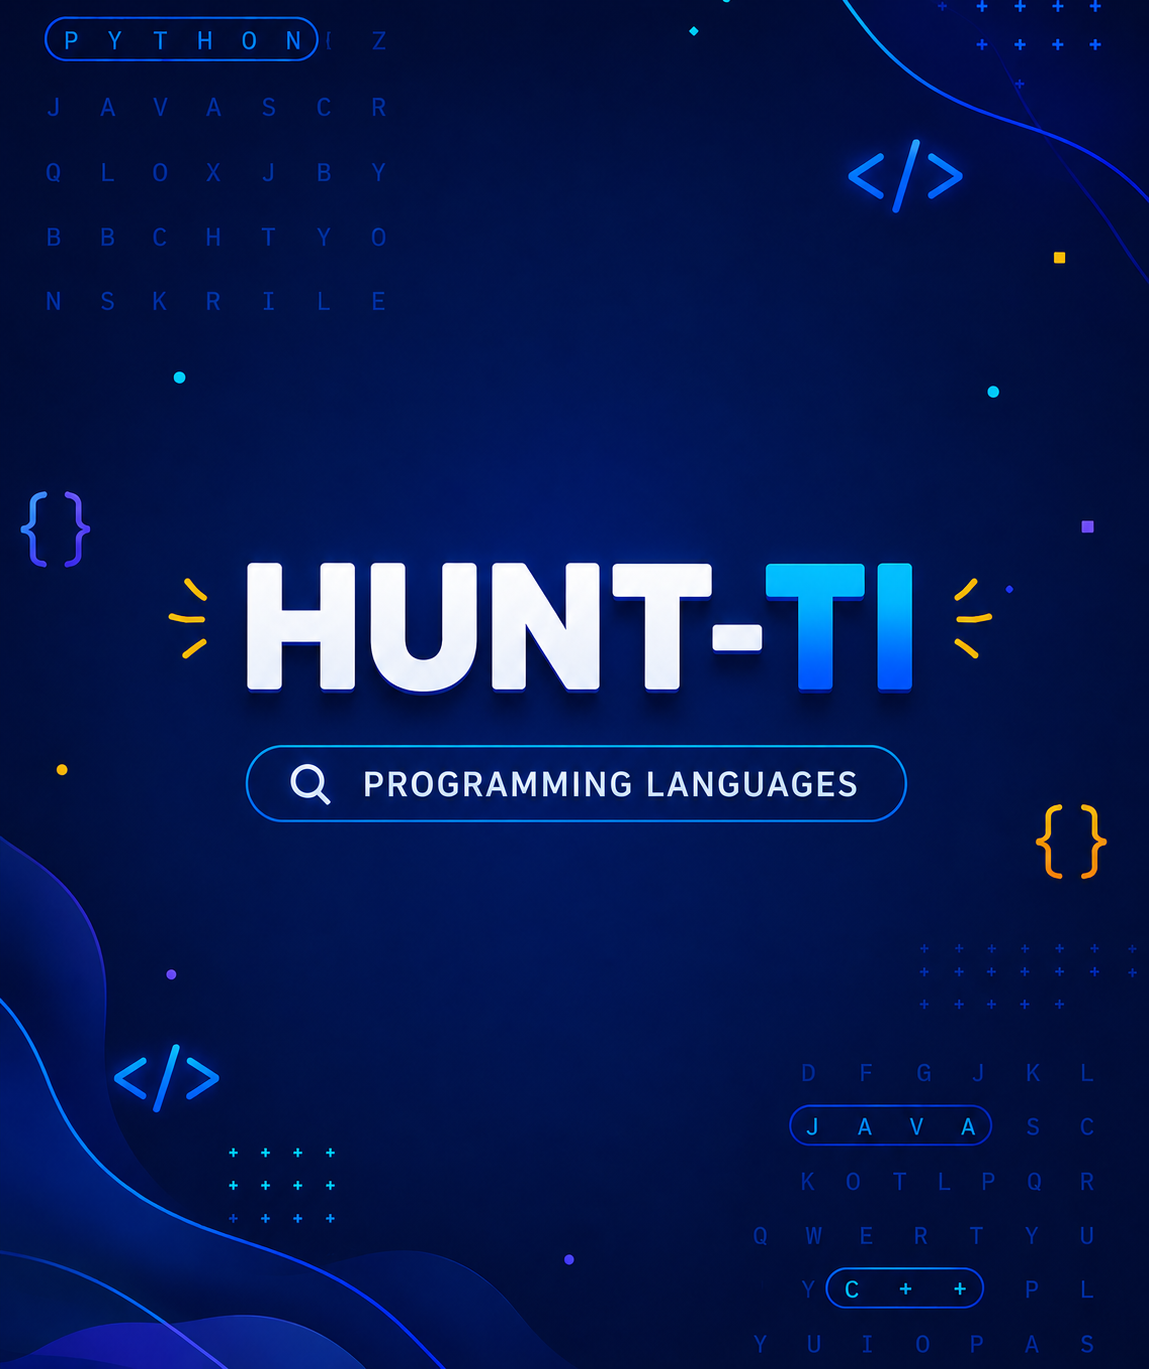
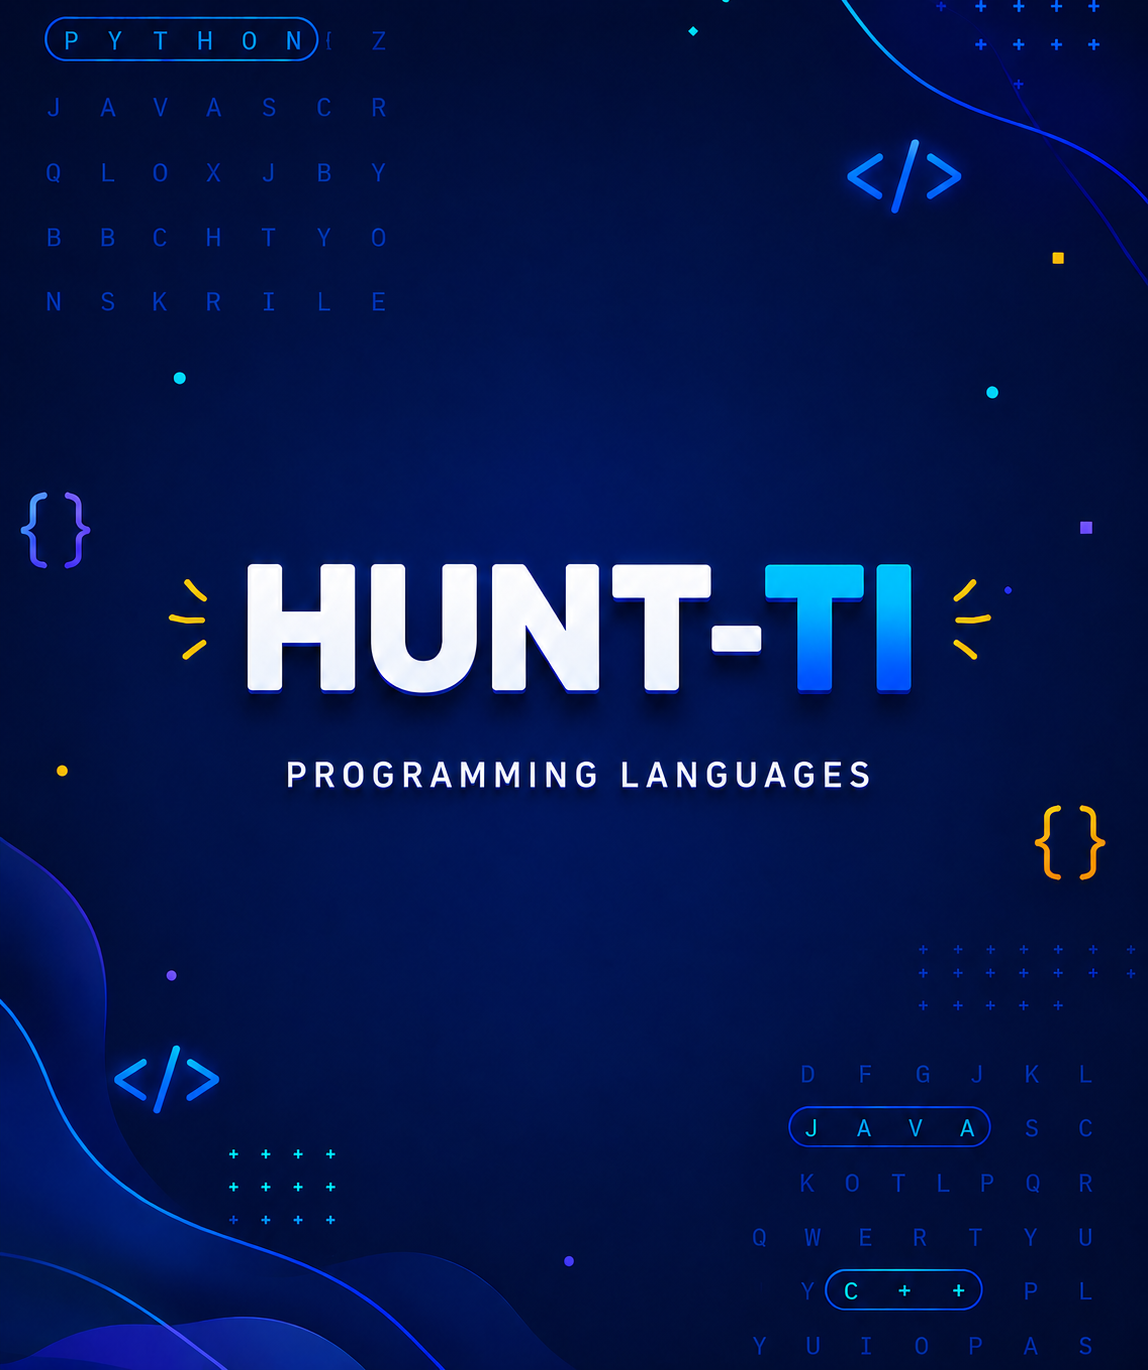
(finalizando o game)

diff --git a/jogo/src/styles/jogar.css b/jogo/src/styles/jogar.css
@@ -130,8 +130,8 @@
     }
     .back-button{
         position: absolute;
-        top: 16px;
-        left: 16px;
+        top: 14 0px;
+        left: 150px;
         width: 110px;
         padding: 8px 12px;
 
@@ -171,4 +171,50 @@
             0 0 12px #ff00cc,
             0 0 24px #ff00cc,
             0 0 40px #ff00cc;
+    }
+
+    
+    .fim {
+        width: 100%;
+        max-width: 720px;
+        margin: 40px auto;
+        background: linear-gradient(135deg, #222233 0%, #2b2b44 100%);
+        color: #fff;
+        border-radius: 14px;
+        padding: 36px;
+        text-align: center;
+        box-shadow: 0 8px 30px rgba(0,0,0,0.5);
+    }
+
+    .fim h1 {
+        font-size: 2.4rem;
+        margin-bottom: 8px;
+    }
+
+    .fim h2 {
+        font-size: 1.6rem;
+        margin-bottom: 14px;
+        color: #cfe8ff;
+    }
+
+    .fim p {
+        margin: 10px 0;
+        color: #d6d6e8;
+    }
+
+    .jogar-novamente {
+        margin-top: 20px;
+        padding: 10px 18px;
+        background: linear-gradient(90deg,#4caf50,#61d07d);
+        color: #072;
+        border: none;
+        border-radius: 10px;
+        font-weight: bold;
+        cursor: pointer;
+        box-shadow: 0 6px 18px rgba(76,175,80,0.25);
+    }
+
+    .jogar-novamente:hover {
+        transform: translateY(-2px);
+        box-shadow: 0 10px 24px rgba(76,175,80,0.35);
     }

diff --git a/jogo/src/routes/jogar/+page.svelte b/jogo/src/routes/jogar/+page.svelte
@@ -5,7 +5,7 @@
     let palavrasEncontradas = [];
     let direcaoAtual = null;
     const tamanho = 15;
-
+    let jogoFinalizado = false;
     const palavras = [
         "JAVA",
         "PHP",
@@ -196,9 +196,6 @@ function obterDirecao(x1, y1, x2, y2) {
 function arrastarSelecao(x, y) {
     console.log("arrastou")
     if (!selecionando) return;
-
-    if (grade[y][x].encontrada) return;
-
     const existe = selecao.some(
         l => l.x === x && l.y === y
     );
@@ -306,11 +303,16 @@ function marcarEncontrada(nome) {
     grade = [...grade];
 
 }
+    
+    // marca o jogo como finalizado quando todas as palavras forem encontradas
+    $: jogoFinalizado = palavrasEncontradas.length === palavras.length;
     </script>
-<div class="container">
-    <a class="back-button" href="/">BACK</a>    
+{#if !jogoFinalizado}
 
-    <h1>Caça-Palavras</h1>
+<div class="container">
+    <a class="back-button" href="/">BACK</a>
+
+    <h1>Hunt-TI</h1>
 
     <div class="painel">
 
@@ -366,5 +368,26 @@ function marcarEncontrada(nome) {
     </div>
 
 </div>
+
+{:else}
+
+<div class="fim">
+    <h1>🎉 MISSION COMPLETE!</h1>
+
+    <h2>Congratulations!</h2>
+
+    <p>
+        You found all the programming languages.
+    </p>
+
+    <p>
+        Welcome to the masters' group of <strong>HUNT-TI</strong>! 💻🏆
+    </p>
+
+    <button class="play again" on:click={() => { iniciar(); palavrasEncontradas = []; jogoFinalizado = false; }}>play again</button>
+
+</div>
+
+{/if}
 
 <svelte:window on:mouseup={finalizarSelecao}/>

diff --git a/jogo/src/routes/sobre/+page.svelte b/jogo/src/routes/sobre/+page.svelte
@@ -2,7 +2,7 @@
 
     <a class="back-button" href="/">BACK</a>
 
-    <h1>Sobre</h1>
+    <h1>ABOUT</h1>
 
     <img class="sobre" src="/images/logoIFPE.png" alt="logo IFPE"/>
 

diff --git a/jogo/src/styles/sobre.css b/jogo/src/styles/sobre.css
@@ -14,6 +14,7 @@
     color: white;
     text-align: center;
     font-size: 25px; 
+	padding: 20px;
 }
 
 .back-button{